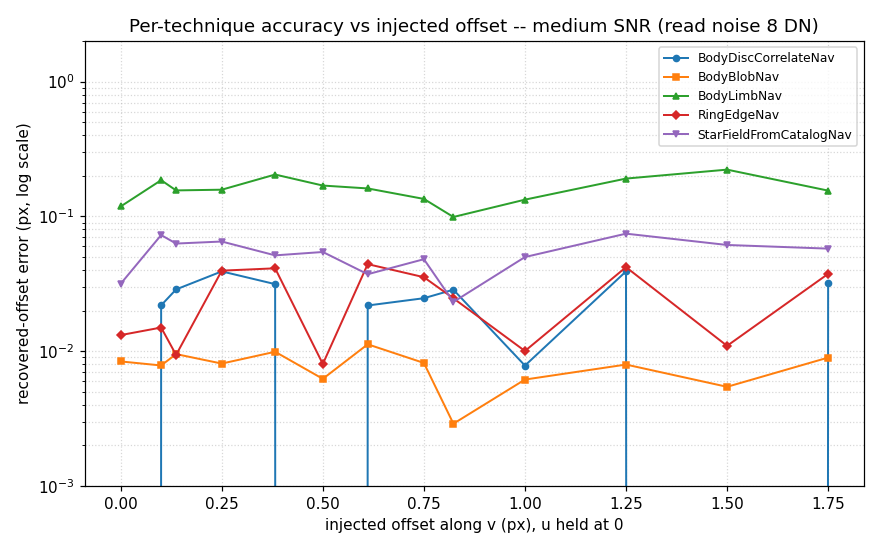
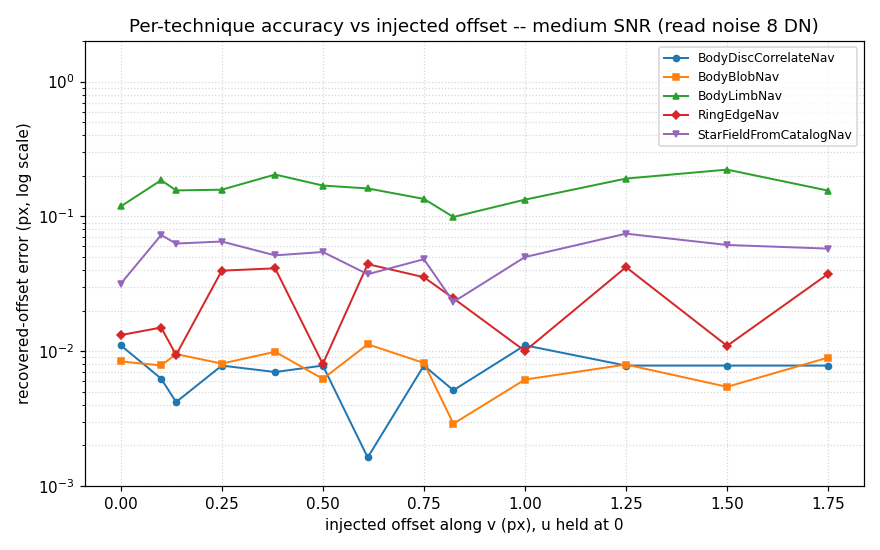
fix: band-limit the disc correlator's sub-pixel refinement
The BodyDiscCorrelateNav sub-pixel offset is the upsampled-DFT argmax of the raw
cross-power between the image and the Lambert template. Both are sharp,
anti-aliased, PSF-free surfaces with differing edge/shading profiles, so their
mismatched high-frequency edge content aliases the cross-power peak into a
sub-pixel-phase-dependent S-curve: ~0.03 px on one axis, up to ~0.1 px at the
worst two-axis phase, zero at integer and half-pixel offsets, and independent of
SNR. It affects real-image disc navigation too.

evaluate_candidate now low-passes both refine surfaces (the image and the
mask-multiplied template) with a Gaussian before the cross-power, controlled by
the BodyDiscCorrelateNav tuning knob refine_lowpass_sigma_px (default 1.0 px).
This removes the high-frequency mismatch and drops the disc residual to ~0.01 px
across every phase with no resolution cost (the upsampled DFT still localizes the
smoothed peak). The low-pass is applied only to the final full-resolution refine
(coarse-level integer-peak selection is untouched) and after the mask multiply
(low-passing first lets the hard mask edge re-sharpen the model and worsens it).
The PSF-blur alternative was rejected: blurring only the rendered body leaves it
mismatched against the sharp template and destabilizes the fit.

Re-bless the four disc-navigated sim baselines (~0.01 px shifts). Mechanism, the
rejected alternatives, and consequences are documented in the body-disc developer
[…]

diff --git a/src/nav/support/correlate.py b/src/nav/support/correlate.py
@@ -401,6 +401,7 @@ def evaluate_candidate(
     metric: str = 'psr',
     refine_image_pad: NDArrayFloatType | None = None,
     refine_model_pad: NDArrayFloatType | None = None,
+    refine_lowpass_sigma_px: float = 0.0,
 ) -> dict[str, Any]:
     """
     Evaluate a candidate for the navigation.
@@ -458,7 +459,21 @@ def evaluate_candidate(
     # sub-pixel bias into the reported offset.
     refine_image = image_pad if refine_image_pad is None else refine_image_pad
     refine_model = model_pad if refine_model_pad is None else refine_model_pad
-    spec = fft2(refine_image) * np.conj(fft2(refine_model * mask_pad))
+    refine_model_masked = refine_model * mask_pad
+    # Band-limit both surfaces before the cross-power.  The sub-pixel peak of two
+    # sharp, anti-aliased (but non-PSF-blurred) surfaces with differing edge
+    # profiles -- a rendered body / ring vs. a Lambert template -- is aliased by a
+    # sub-pixel-phase-dependent amount (a ~0.03 px odd S-curve, zero at integer and
+    # half-pixel offsets).  A matched Gaussian low-pass removes the high-frequency
+    # mismatch that drives it, cutting the disc / ring residual to ~0.01 px; the
+    # upsampled DFT still localizes the smoothed peak.  The low-pass is applied to
+    # the final surfaces (the image and the already-masked model) so the model's
+    # support edge is not re-sharpened by the mask afterwards.  Default 0.0 is a
+    # no-op.
+    if refine_lowpass_sigma_px > 0.0:
+        refine_image = gaussian_filter(refine_image, refine_lowpass_sigma_px)
+        refine_model_masked = gaussian_filter(refine_model_masked, refine_lowpass_sigma_px)
+    spec = fft2(refine_image) * np.conj(fft2(refine_model_masked))
     # Center of the local upsampled DFT window should be the middle of the
     # evaluation region (e.g., 3x3 -> center index 1), not half the upsample factor.
     # Using upsample_factor here caused increasing bias for large factors.
@@ -542,6 +557,7 @@ def navigate_single_scale_kpeaks(
     max_offset_vu: tuple[int, int] | None = None,
     data_mask: NDArrayBoolType | None = None,
     use_gradient: bool = False,
+    refine_lowpass_sigma_px: float = 0.0,
 ) -> dict[str, Any]:
     """
     One-scale masked NCC + top-K candidate evaluation.
@@ -647,6 +663,7 @@ def navigate_single_scale_kpeaks(
             logger=logger,
             refine_image_pad=refine_image_pad,
             refine_model_pad=refine_model_pad,
+            refine_lowpass_sigma_px=refine_lowpass_sigma_px,
         )
         candidates.append(evaluation)
         if logger is not None:
@@ -751,6 +768,7 @@ def navigate_with_pyramid_kpeaks(
     max_offset_vu: tuple[int, int] | None = None,
     data_mask: NDArrayBoolType | None = None,
     use_gradient: bool | Literal['auto'] = False,
+    refine_lowpass_sigma_px: float = 0.0,
     logger: PdsLogger | None = None,
 ) -> dict[str, Any]:
     """TODO Clean this up
@@ -844,6 +862,7 @@ def navigate_with_pyramid_kpeaks(
             max_offset_vu=max_offset_vu,
             data_mask=data_mask,
             use_gradient=False,
+            refine_lowpass_sigma_px=refine_lowpass_sigma_px,
             logger=logger,
         )
         logger.debug('Auto-gradient: running gradient-magnitude pass')
@@ -862,6 +881,7 @@ def navigate_with_pyramid_kpeaks(
             max_offset_vu=max_offset_vu,
             data_mask=data_mask,
             use_gradient=True,
+            refine_lowpass_sigma_px=refine_lowpass_sigma_px,
             logger=logger,
         )
         # Pick the better result by ordered tiers. At-edge comes before
@@ -1026,6 +1046,9 @@ def navigate_with_pyramid_kpeaks(
         max_offset_vu=max_offset_vu,
         data_mask=data_mask,
         use_gradient=use_gradient,
+        # Band-limit only the full-resolution sub-pixel refinement; the coarse
+        # pyramid levels keep their sharp surfaces for integer-peak selection.
+        refine_lowpass_sigma_px=refine_lowpass_sigma_px,
         logger=logger,
     )
 

diff --git a/src/nav/nav_technique/nav_technique_body_disc.py b/src/nav/nav_technique/nav_technique_body_disc.py
@@ -233,6 +233,7 @@ class BodyDiscCorrelateNav(NavTechnique):
             self.tuning['consistency_max_fraction_of_diameter']
         )
         self._consistency_max_px = float(self.tuning['consistency_max_px'])
+        self._refine_lowpass_sigma_px = float(self.tuning['refine_lowpass_sigma_px'])
 
     def is_feasible(self, features: list[NavFeature]) -> NavFeasibilityReport:
         """Return whether the input set carries any usable BODY_DISC feature.
@@ -331,6 +332,7 @@ class BodyDiscCorrelateNav(NavTechnique):
                     max_offset_vu=(margin_v, margin_u),
                     data_mask=context.sensor_mask_ext,
                     use_gradient='auto',
+                    refine_lowpass_sigma_px=self._refine_lowpass_sigma_px,
                     logger=self.logger,
                 )
             dv = float(ncc_result['offset'][0])
@@ -664,6 +666,7 @@ class BodyDiscCorrelateNav(NavTechnique):
             max_offset_vu=max_offset_vu,
             data_mask=data_mask,
             use_gradient='auto',
+            refine_lowpass_sigma_px=self._refine_lowpass_sigma_px,
             logger=self.logger,
         )
 

diff --git a/docs/simulator_report/simulator_report.rst b/docs/simulator_report/simulator_report.rst
@@ -603,15 +603,13 @@ characterization.
    :width: 100%
    :alt: Per-technique recovered-offset error vs SNR, nominal background.
 
-   Nominal background. The disc (~0.03 px) and ring (~0.06 px) are flat with SNR --
-   noise-immune but carrying a residual *off-grid* sub-pixel bias that a round-number offset
-   would have hidden (both recover the half-pixel offset far more tightly). The residual comes
-   from correlating a sharp (anti-aliased, PSF-free) body / ring edge against an equally sharp
-   template -- matched sharp edges still alias the cross-power peak -- and so is removed by
-   PSF-convolving the edge in both the simulator and the template (see the note below). The
-   blob is the most accurate at high SNR (~0.008 px) and the star improves steadily with SNR.
-   The limb is pinned near its ~0.15 px distance-transform bias floor regardless of SNR, a
-   separate follow-up rather than a noise problem.
+   Nominal background. The disc (~0.01 px) and blob (~0.008 px) are the most accurate and both
+   flat with SNR; the disc reaches that floor only because the correlator's sub-pixel refine is
+   band-limited (see the note below) -- without that it would sit at ~0.03 px here from the
+   sharp-edge S-curve. The star improves steadily with SNR. The ring is flat at ~0.06 px: that
+   residual is a distance-transform effect (``RingEdgeNav`` is not correlation based), shared
+   with the limb, not the correlator artifact the disc had. The limb is pinned near its ~0.15 px
+   distance-transform bias floor regardless of SNR -- a separate follow-up, not a noise problem.
 
 .. figure:: _figures/technique_snr_gradient.png
    :width: 100%
@@ -624,31 +622,10 @@ characterization.
    returns a result (their curves are absent). Stray light is therefore a far bigger threat to
    the faint-feature techniques than read noise alone.
 
-.. note::
-
-   **The disc / ring off-grid sub-pixel residual is a correlator refinement artifact.** Mapping
-   the disc residual against sub-pixel phase gives an odd S-curve that is zero at integer and
-   half-pixel offsets and peaks (~0.03 px, up to ~0.1 px at the worst 2-D phase) near the
-   quarter-pixel; it is per-axis separable (a pure-v offset produces a v-residual with ~zero
-   u-coupling), so the single-axis ``*_offset_fine`` sweeps report a faithful per-axis figure --
-   the other axis behaves symmetrically.
-
-   Capturing the exact ``(image, template)`` arrays the disc technique hands the correlator
-   shows the pipeline's sub-pixel offset equals a plain raw cross-power upsampled-DFT refine of
-   the two (the gradient mode chooses the integer peak but, per the gradient-NCC fix, refines on
-   raw). The bias is therefore in that refinement: the cross-power is formed from the raw,
-   sharp-edged, *anti-aliased* image and a Lambert template whose edge / shading profile differs
-   from the rendered body, and the mismatched high-frequency edge content aliases the cross-power
-   peak by a sub-pixel-phase-dependent amount. Two things were ruled out: it is not a simulator
-   hard-edge artifact alone (PSF-blurring the rendered body at the camera's own ~0.54 px sigma
-   barely moves it and destabilizes some phases, because the template stays sharp), and it is not
-   the upsampled-DFT quantization (1/128 px). The lever is a **band-limit inside the
-   refinement**: low-pass *both* surfaces (Gaussian sigma ~1 px) before the cross-power and the
-   residual drops from ~±0.035 px to ~±0.01 px across every phase, with no change to the rendered
-   image or the template. Real-image disc / ring navigation carries the same bias (a real
-   PSF-blurred limb correlates against the same sharp Lambert template), so the fix belongs in
-   the shared correlator; landing it requires re-blessing the real-image baselines (SPICE
-   holdings), so it is tracked as a dedicated correlator task alongside the limb DT bias.
+The disc and ring sub-pixel residuals are off-grid effects (zero at integer and half-pixel
+offsets), so they are measured against an off-grid planted offset; their mechanisms and the
+disc correlator band-limit are documented in the developer guide
+(:doc:`/dev_guide/dev_guide_techniques_body_disc`).
 
 **Accuracy versus injected offset (fixed SNR).** Holding the read noise at three levels, a
 pure-vertical offset is swept from 0 to 1.75 px (``u`` held at 0) for every technique. The

diff --git a/docs/dev_guide/dev_guide_techniques_body_disc.rst b/docs/dev_guide/dev_guide_techniques_body_disc.rst
@@ -61,6 +61,36 @@ peak does not carry the gradient-magnitude rectification bias (the magnitude rec
 signal, making the cross-power peak non-smooth at its apex) into the reported offset; the
 correlation-surface curvature provides the Cramer-Rao lower bound covariance.
 
+Sub-pixel refinement band-limit (``refine_lowpass_sigma_px``)
+------------------------------------------------------------
+
+Before the cross-power spectrum is formed, the full-resolution refinement low-passes both
+surfaces -- the image and the (already mask-multiplied) template -- with a Gaussian of
+``refine_lowpass_sigma_px`` (default 1.0 px).
+
+**Why.** The template is an oversampled but otherwise *sharp* Lambert silhouette, and a real
+or simulated body has an equally sharp (PSF-aside) limb whose edge profile does not match the
+template's. Cross-correlating two sharp surfaces with differing edge profiles aliases the
+cross-power peak: the high-frequency edge content beats against the sampling grid and shifts
+the peak by an amount that depends on the sub-pixel phase. The result is an odd S-curve in the
+recovered offset -- zero at integer and half-pixel offsets, growing to a peak near the
+quarter-pixel -- which is *per-axis separable* (a pure-``v`` offset biases ``v`` only). The
+matched low-pass removes the high-frequency mismatch that drives the aliasing, so the peak
+lands on the true shift. The localized upsampled DFT still resolves the smoothed peak to
+1/128 px, so the band-limit costs no usable resolution.
+
+**What happens if you don't (set it to 0).** The disc carries a sub-pixel-phase-dependent
+residual of roughly ``±0.03`` px on a single axis, rising to ``~0.1`` px at the worst
+two-axis phase, *independent of SNR* (it is a deterministic correlation artifact, not noise).
+Because the simulator's body and the navigator's template are both sharp, a round-number
+planted offset (``0``, ``0.5``) lands on the bias null and hides it entirely -- which is why
+the per-technique characterization plants an off-grid offset. With the default 1.0 px
+low-pass the residual drops to ``~0.01`` px across every sub-pixel phase. The band-limit is
+applied **only** to the final full-resolution refine; the coarse pyramid levels keep their
+sharp surfaces so integer-peak selection is unaffected. It must low-pass the *mask-multiplied*
+template, not the bare template -- low-passing before the mask multiply lets the hard mask
+edge re-sharpen the model and makes the bias worse, not better.
+
 Mode selection (auto / raw / gradient)
 --------------------------------------
 
@@ -144,6 +174,14 @@ in ``src/nav/config_files/config_510_techniques.yaml``.
   :attr:`~nav.nav_technique.technique_result.NavTechniqueResult.at_edge` once it crosses
   this fraction of the per-image
   :attr:`~nav.nav_orchestrator.nav_context.NavContext.max_rotation_deg` cap.
+- ``consistency_max_fraction_of_diameter`` / ``consistency_max_px`` — floats, defaults
+  ``0.025`` / ``4.0`` px. Diameter-scaled and absolute floors on the accepted pyramid-level
+  peak migration; the applied spurious cap is the larger of the two.
+- ``refine_lowpass_sigma_px`` — float, default ``1.0`` px. Gaussian low-pass applied to both
+  surfaces in the full-resolution sub-pixel refine (see "Sub-pixel refinement band-limit").
+  Removes the sharp-edge cross-power aliasing that otherwise leaves a ~0.03 px (up to ~0.1 px
+  at the worst two-axis phase) sub-pixel-phase S-curve in the recovered offset; ``0.0``
+  disables it and restores that bias.
 
 The remaining numeric thresholds (NCC peak quality, consistency tolerance, top-k count) are
 shared across every pyramid-NCC technique and live as module-level constants in
